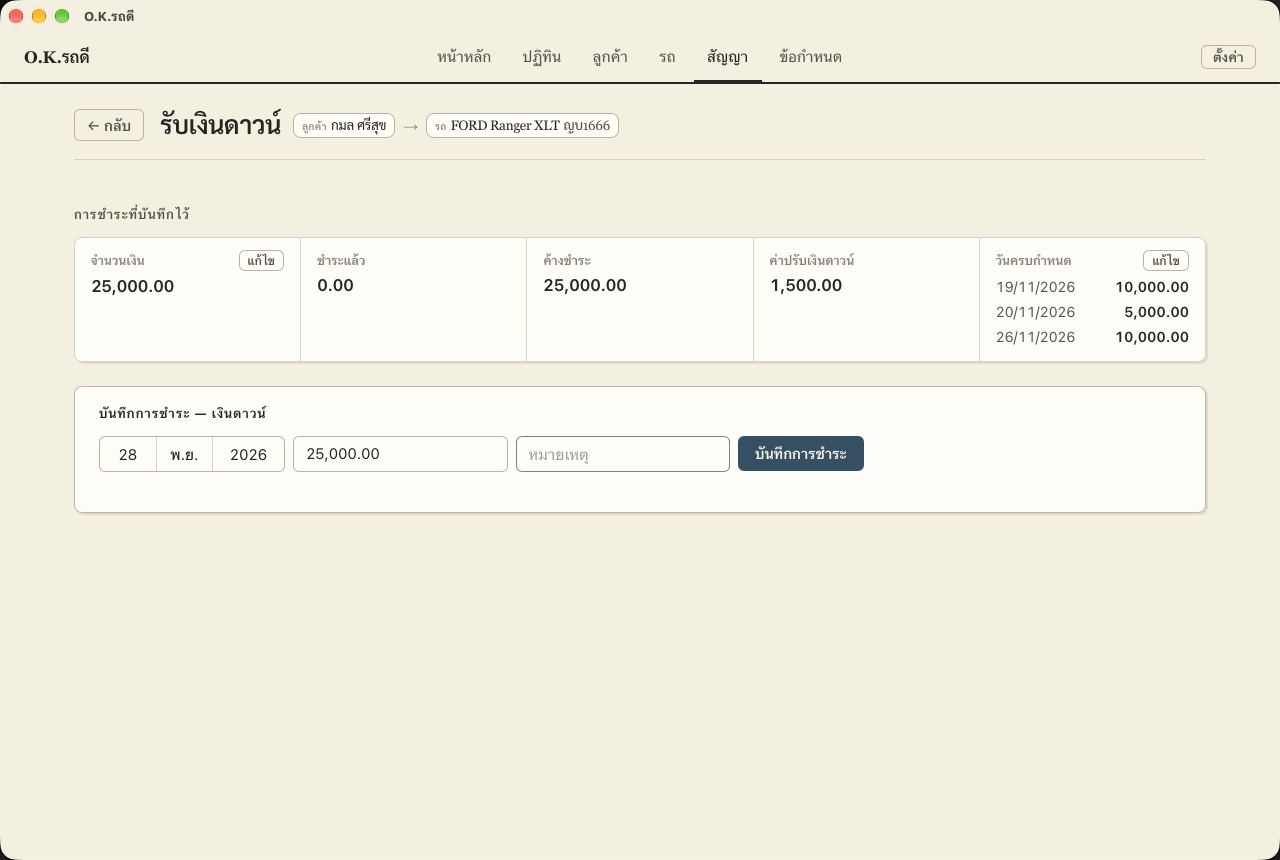
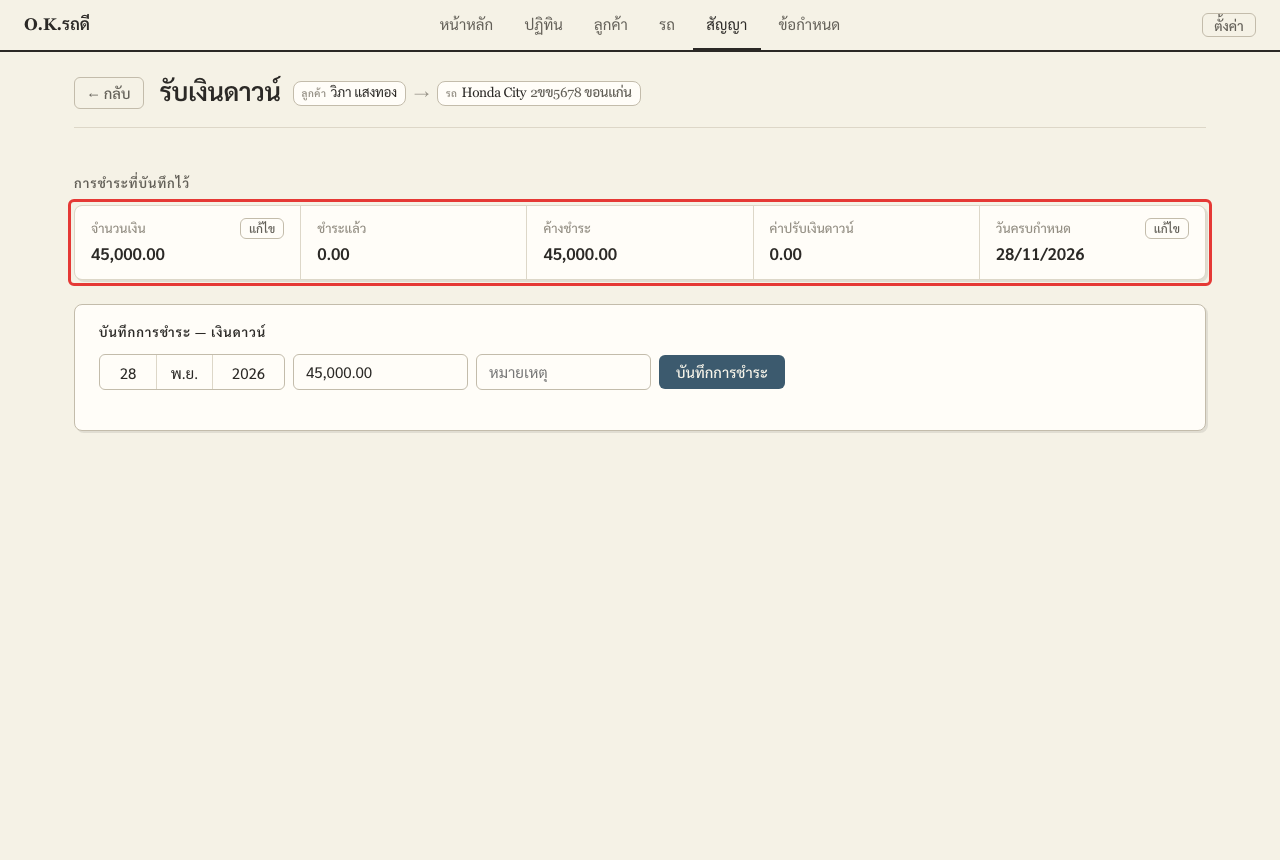
docs: 0.4.0 notes cover every change, with marked screenshots in both languages
Screenshots are taken from demo data, not a shop's records. The notes title
is centred again.

diff --git a/src/updates/0.4.0.th.html b/src/updates/0.4.0.th.html
@@ -1,7 +1,7 @@
-<!-- Draft: check the wording and add screenshots before release. -->
 <h2>New system update</h2>
 <ol>
   <li>
+    <img src="/updates/0.4.0/overpay.png" alt="" />
     <h3>จ่ายเกิน หักงวดถัดไป</h3>
     <ul>
       <li>ถ้าลูกค้าจ่ายเกินยอดงวดนั้น ส่วนที่เกินจะลดยอดงวดถัดไปตามลำดับ</li>
@@ -15,6 +15,7 @@
     </ul>
   </li>
   <li>
+    <img src="/updates/0.4.0/thai-id.png" alt="" />
     <h3>เลขบัตรประชาชนลูกค้า</h3>
     <ul>
       <li>กรอกได้ในฟอร์มลูกค้า ตรวจว่าครบ 13 หลักและถูกต้อง</li>
@@ -22,22 +23,51 @@
       <li>แสดงในหน้าลูกค้า</li>
     </ul>
   </li>
+  <li>
+    <img src="/updates/0.4.0/edit-installment.png" alt="" />
+    <h3>แก้ไขงวดเดียว</h3>
+    <ul>
+      <li>กดที่งวดในตารางผ่อน แก้วันครบกำหนด และ ยอดที่ต้องชำระ ของงวดนั้นได้</li>
+      <li>งวดอื่นไม่เปลี่ยน</li>
+      <li>ค่าปรับคิดจากวันครบกำหนดใหม่</li>
+    </ul>
+  </li>
 </ol>
 
 <h2>System addition</h2>
 <ol>
   <li>
+    <img src="/updates/0.4.0/calendar.png" alt="" />
     <h3>ปฏิทินแสดงมากขึ้น</h3>
     <ul>
       <li>เพิ่ม เงินดาวน์ (แต่ละงวดที่นัดจ่าย) ค่าประกัน ค่าปรับตำรวจ และ วันประกันรถหมดอายุ</li>
       <li>ช่องวันบอกจำนวนแยกตามประเภท</li>
+      <li>วัน สัปดาห์ เดือน หรือ ปี ที่ดูอยู่ แสดงข้างหัวข้อ ปฏิทิน</li>
+    </ul>
+    <img src="/updates/0.4.0/calendar-list.png" alt="" />
+    <ul>
       <li>รายการด้านล่างแยกตามประเภท กดหัวข้อเพื่อซ่อน หรือ แสดง</li>
     </ul>
   </li>
   <li>
+    <img src="/updates/0.4.0/edit-popup.png" alt="" />
     <h3>แก้ไขลูกค้า และ รถ เป็นหน้าต่าง</h3>
     <ul>
       <li>ไม่ต้องเปลี่ยนหน้า เหมือนตอนเพิ่ม</li>
+    </ul>
+  </li>
+  <li>
+    <img src="/updates/0.4.0/error-code.png" alt="" />
+    <h3>รหัสข้อผิดพลาด</h3>
+    <ul>
+      <li>ข้อความแจ้งข้อผิดพลาดมีรหัสต่อท้าย เช่น (E1003) แจ้งรหัสนี้เวลาติดต่อขอความช่วยเหลือ</li>
+      <li>ถ้าหน้าจอใดมีปัญหา โปรแกรมแจ้งข้อผิดพลาด และ กดลองอีกครั้งได้ ไม่ค้าง</li>
+    </ul>
+    <img src="/updates/0.4.0/log.png" alt="" />
+    <h3>บันทึกการทำงาน</h3>
+    <ul>
+      <li>โปรแกรมเก็บบันทึกข้อผิดพลาดไว้ในเครื่อง ไม่ส่งออกไปที่ใด</li>
+      <li>ตั้งค่า &gt; ข้อมูล &gt; เปิดโฟลเดอร์บันทึกการทำงาน เพื่อส่งไฟล์ให้ผู้ดูแล</li>
     </ul>
   </li>
 </ol>
@@ -56,6 +86,13 @@
     <h3>สัญญาใหม่ เข้าหน้ารับเงินดาวน์แบบเต็มได้ทันที</h3>
     <ul>
       <li>ไม่ต้องกรอกฟอร์มสั้นก่อน</li>
+    </ul>
+  </li>
+  <li>
+    <h3>หน้าอัปเดต</h3>
+    <ul>
+      <li>ตั้งค่า &gt; เกี่ยวกับโปรแกรม &gt; ดูสิ่งที่เปลี่ยนในแต่ละเวอร์ชัน</li>
+      <li>เปิดเวอร์ชันใหม่ครั้งแรก จะแสดงสิ่งที่เปลี่ยนให้ดูครั้งเดียว</li>
     </ul>
   </li>
 </ol>

diff --git a/src/updates/0.4.0.en.html b/src/updates/0.4.0.en.html
@@ -1,7 +1,7 @@
-<!-- Draft: check the wording and add screenshots before release. -->
 <h2>New system update</h2>
 <ol>
   <li>
+    <img src="/updates/0.4.0/overpay.en.png" alt="" />
     <h3>Overpaying lowers the next installment</h3>
     <ul>
       <li>Anything paid past what an installment owes comes off the next ones, in order</li>
@@ -15,6 +15,7 @@
     </ul>
   </li>
   <li>
+    <img src="/updates/0.4.0/thai-id.en.png" alt="" />
     <h3>Client Thai ID</h3>
     <ul>
       <li>Entered on the client form, checked for 13 digits and a valid number</li>
@@ -22,22 +23,51 @@
       <li>Shown on the client page</li>
     </ul>
   </li>
+  <li>
+    <img src="/updates/0.4.0/edit-installment.en.png" alt="" />
+    <h3>Change one installment</h3>
+    <ul>
+      <li>Click an installment in the schedule to change its due date and amount</li>
+      <li>The other installments stay as they are</li>
+      <li>Late fees count from the new due date</li>
+    </ul>
+  </li>
 </ol>
 
 <h2>System addition</h2>
 <ol>
   <li>
+    <img src="/updates/0.4.0/calendar.en.png" alt="" />
     <h3>More on the calendar</h3>
     <ul>
       <li>Adds down payment parts, insurance fees, police fines and car insurance expiry</li>
       <li>Each day counts every kind on its own</li>
+      <li>The day, week, month or year on screen is shown beside the Calendar title</li>
+    </ul>
+    <img src="/updates/0.4.0/calendar-list.en.png" alt="" />
+    <ul>
       <li>The list below is split by kind; click a heading to hide or show it</li>
     </ul>
   </li>
   <li>
+    <img src="/updates/0.4.0/edit-popup.en.png" alt="" />
     <h3>Edit a client or car in a pop-up</h3>
     <ul>
       <li>No page change, the same as adding one</li>
+    </ul>
+  </li>
+  <li>
+    <img src="/updates/0.4.0/error-code.en.png" alt="" />
+    <h3>Error codes</h3>
+    <ul>
+      <li>Every error message ends with a code, such as (E1003); give it when asking for help</li>
+      <li>A screen that breaks shows the error and a Try again button instead of freezing</li>
+    </ul>
+    <img src="/updates/0.4.0/log.en.png" alt="" />
+    <h3>Log</h3>
+    <ul>
+      <li>The program keeps a log of what went wrong, on this computer only</li>
+      <li>Settings &gt; Data &gt; Open log folder, to send the file to whoever looks after the program</li>
     </ul>
   </li>
 </ol>
@@ -45,17 +75,24 @@
 <h2>Visual adjusting</h2>
 <ol>
   <li>
-    <img src="/updates/0.4.0/late-fees.png" alt="" />
+    <img src="/updates/0.4.0/late-fees.en.png" alt="" />
     <h3>The down payment's late fee sits under the installment late fees</h3>
     <ul>
       <li>Shows 0.00 when there is none</li>
     </ul>
   </li>
   <li>
-    <img src="/updates/0.4.0/down-payment.png" alt="" />
+    <img src="/updates/0.4.0/down-payment.en.png" alt="" />
     <h3>A new contract opens the full down payment page straight away</h3>
     <ul>
       <li>No short form to fill in first</li>
+    </ul>
+  </li>
+  <li>
+    <h3>Updates page</h3>
+    <ul>
+      <li>Settings &gt; About &gt; What's new in each version</li>
+      <li>The first time a new version opens, it shows what changed, once</li>
     </ul>
   </li>
 </ol>

diff --git a/src/app.css b/src/app.css
@@ -1677,7 +1677,7 @@ article.update > .title {
   padding-bottom: var(--s4);
   border-bottom: 1px solid var(--line);
 }
-article.update > .title h1 { margin: 0; color: var(--accent); }
+article.update > .title h1 { margin: 0; justify-content: center; color: var(--accent); }
 article.update > .title p { margin: var(--s1) 0 0; color: var(--ink-soft); }
 article.update h2 {
   margin: var(--s6) 0 var(--s3);
